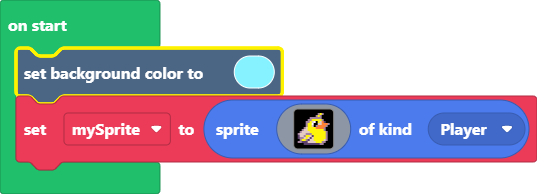
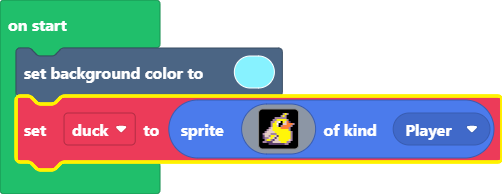
Update main.blocks, main.ts

Changed region(s): [[0.0, 0.0, 1.0, 1.0], [0.0, 0.0928, 0.1494, 0.1856], [0.8068, 0.7423, 0.8367, 0.7732]]

diff --git a/main.ts b/main.ts
@@ -1,5 +1,5 @@
 scene.setBackgroundColor(9)
-let mySprite = sprites.create(img`
+let duck = sprites.create(img`
     . . . . . . . . . . b 5 b . . . 
     . . . . . . . . . b 5 b . . . . 
     . . . . . . b b b b b b . . . . 
